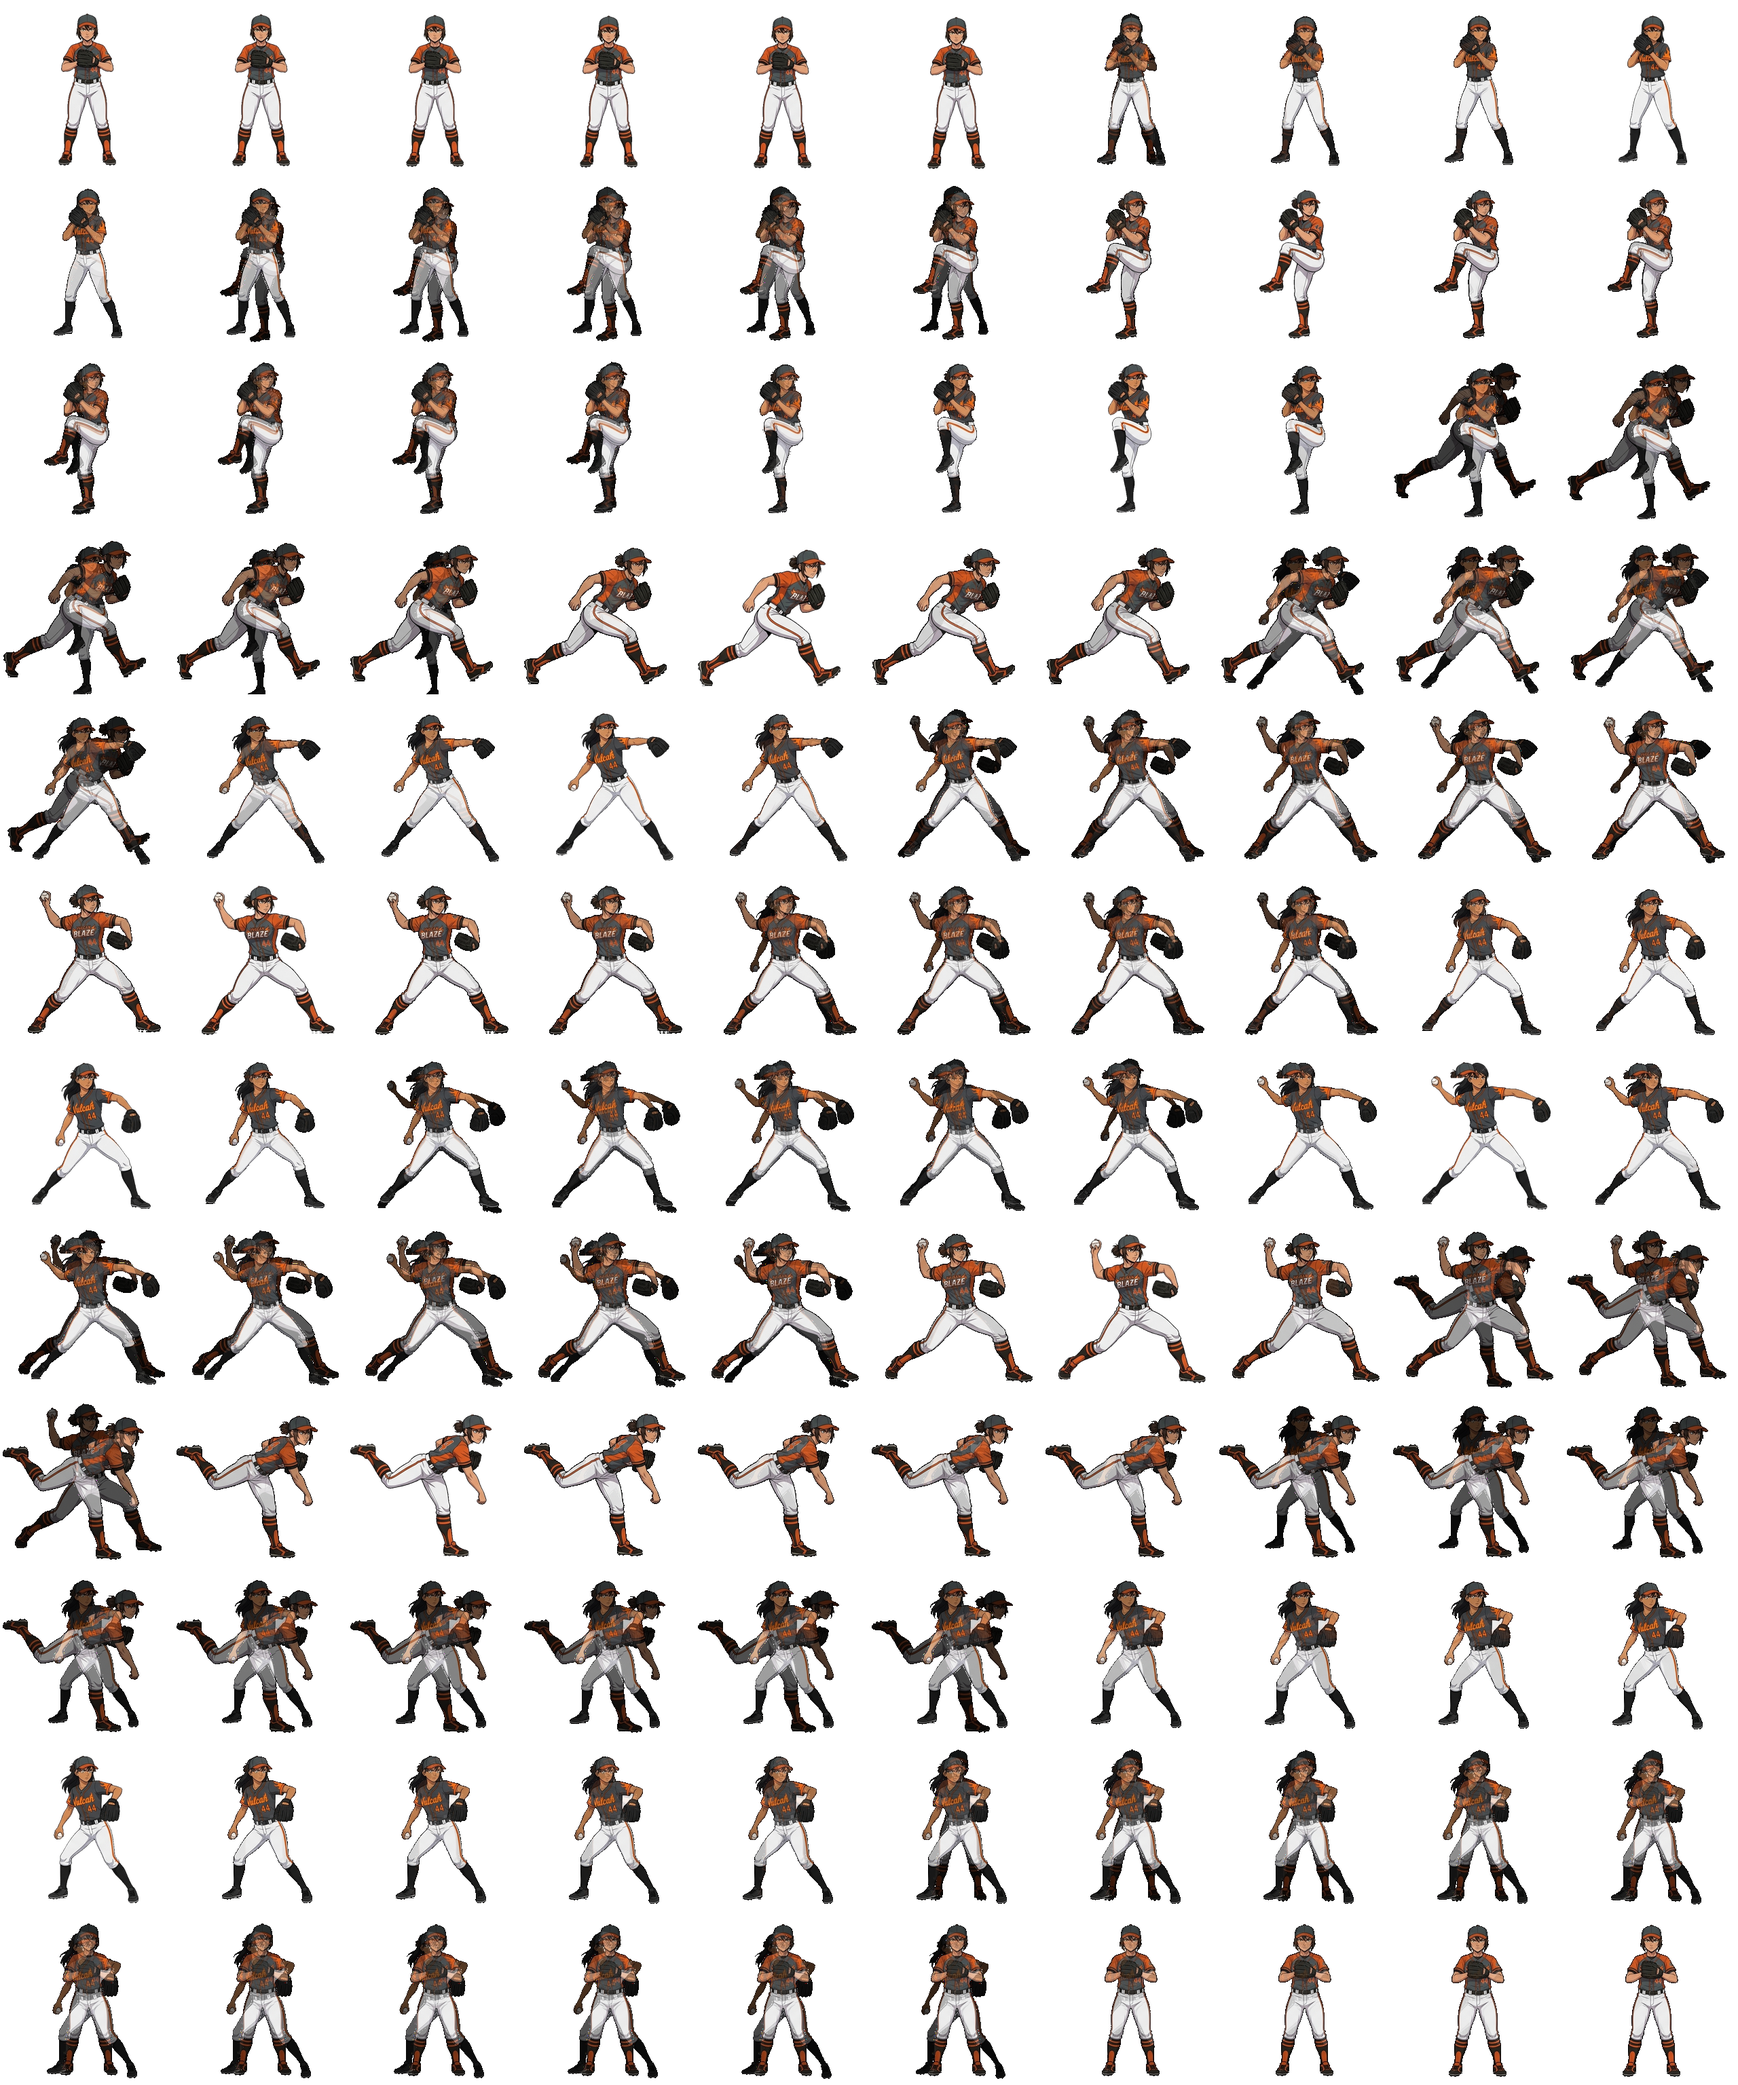
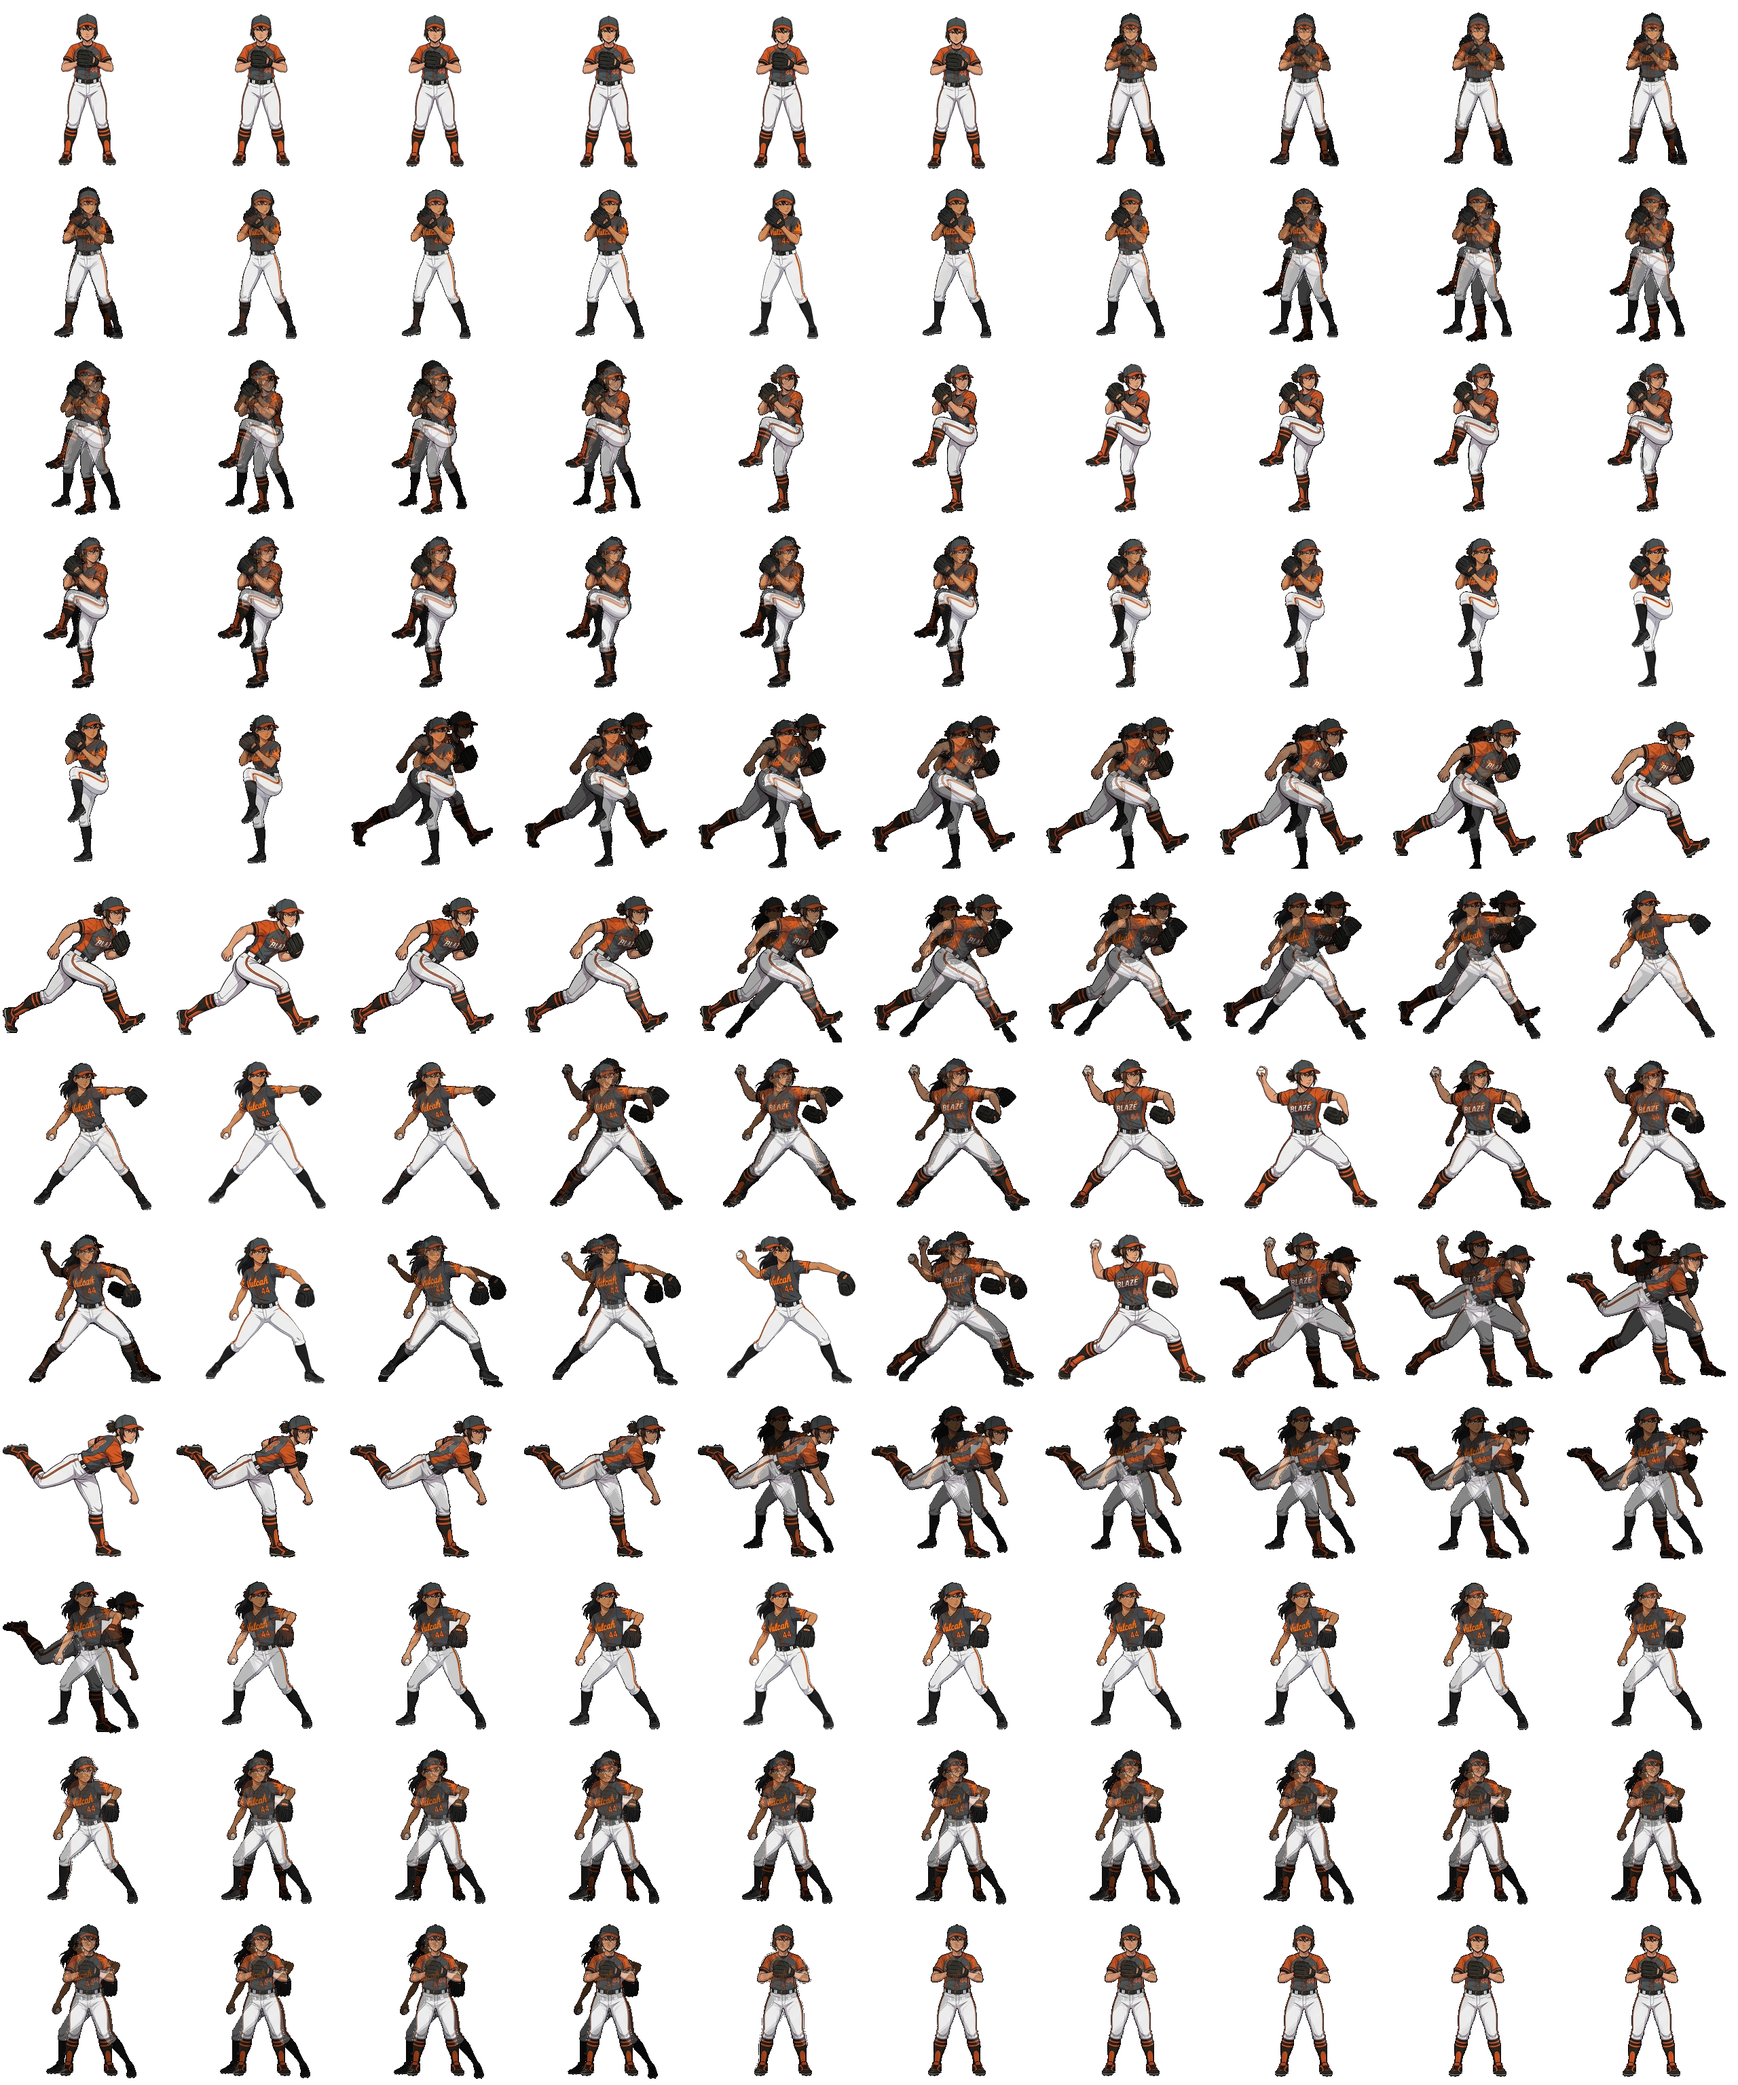
fix: adjust pitching animation timelines for explosive release rhythm

diff --git a/scripts/build-vulcan-blaze.py b/scripts/build-vulcan-blaze.py
@@ -16,18 +16,18 @@ def main() -> None:
     from build_catcher_pitcher import build_catcher_atlas
 
     timeline = [
-        ("keys", 0, "set", 9),
-        ("bridges", 0, "hands-rise", 8),
-        ("keys", 1, "coil", 9),
-        ("bridges", 1, "deeper-coil", 8),
-        ("keys", 2, "downhill-drive", 9),
-        ("bridges", 2, "lead-foot-descend", 8),
-        ("keys", 3, "stride-plant", 9),
-        ("bridges", 3, "foot-plant", 8),
-        ("bridges", 4, "arm-acceleration", 8),
-        ("keys", 4, "release", 6),
-        ("keys", 5, "follow-through", 18),
-        ("bridges", 5, "recovery", 20),
+        ("keys", 0, "set", 14),
+        ("bridges", 0, "hands-rise", 12),
+        ("keys", 1, "coil", 13),
+        ("bridges", 1, "deeper-coil", 12),
+        ("keys", 2, "downhill-drive", 10),
+        ("bridges", 2, "lead-foot-descend", 6),
+        ("keys", 3, "stride-plant", 4),
+        ("bridges", 3, "foot-plant", 3),
+        ("bridges", 4, "arm-acceleration", 2),
+        ("keys", 4, "release", 4),
+        ("keys", 5, "follow-through", 14),
+        ("bridges", 5, "recovery", 26),
     ]
     meta = {
         "id": "vulcan-blaze-pitch-v1",

diff --git a/scripts/build-gale-twister.py b/scripts/build-gale-twister.py
@@ -16,18 +16,18 @@ def main() -> None:
     from build_catcher_pitcher import build_catcher_atlas
 
     timeline = [
-        ("keys", 0, "set", 9),
-        ("bridges", 0, "hands-rise", 8),
-        ("keys", 1, "coil", 9),
-        ("bridges", 1, "deeper-coil", 8),
-        ("keys", 2, "compact-lift", 9),
-        ("bridges", 2, "drive-off-rubber", 8),
-        ("keys", 3, "stride-lag", 9),
-        ("bridges", 3, "foot-plant", 8),
-        ("bridges", 4, "arm-whip", 8),
-        ("keys", 4, "release", 6),
-        ("keys", 5, "follow-through", 18),
-        ("bridges", 5, "recovery", 20),
+        ("keys", 0, "set", 14),
+        ("bridges", 0, "hands-rise", 12),
+        ("keys", 1, "coil", 13),
+        ("bridges", 1, "deeper-coil", 12),
+        ("keys", 2, "compact-lift", 10),
+        ("bridges", 2, "drive-off-rubber", 6),
+        ("keys", 3, "stride-lag", 4),
+        ("bridges", 3, "foot-plant", 3),
+        ("bridges", 4, "arm-whip", 2),
+        ("keys", 4, "release", 4),
+        ("keys", 5, "follow-through", 14),
+        ("bridges", 5, "recovery", 26),
     ]
     meta = {
         "id": "gale-twister-pitch-v1",

diff --git a/scripts/build-sky-phantom.py b/scripts/build-sky-phantom.py
@@ -16,18 +16,18 @@ def main() -> None:
     from build_catcher_pitcher import build_catcher_atlas
 
     timeline = [
-        ("keys", 0, "set", 9),
-        ("bridges", 0, "hands-rise", 8),
-        ("keys", 1, "coil", 9),
-        ("bridges", 1, "deeper-coil", 8),
-        ("keys", 2, "high-leg-kick", 9),
-        ("bridges", 2, "knee-lower", 8),
-        ("keys", 3, "stride", 9),
-        ("bridges", 3, "foot-plant", 8),
-        ("bridges", 4, "arm-whip", 8),
-        ("keys", 4, "release", 6),
-        ("keys", 5, "follow-through", 18),
-        ("bridges", 5, "recovery", 20),
+        ("keys", 0, "set", 14),
+        ("bridges", 0, "hands-rise", 12),
+        ("keys", 1, "coil", 13),
+        ("bridges", 1, "deeper-coil", 12),
+        ("keys", 2, "high-leg-kick", 10),
+        ("bridges", 2, "knee-lower", 6),
+        ("keys", 3, "stride", 4),
+        ("bridges", 3, "foot-plant", 3),
+        ("bridges", 4, "arm-whip", 2),
+        ("keys", 4, "release", 4),
+        ("keys", 5, "follow-through", 14),
+        ("bridges", 5, "recovery", 26),
     ]
     meta = {
         "id": "sky-phantom-pitch-v1",
